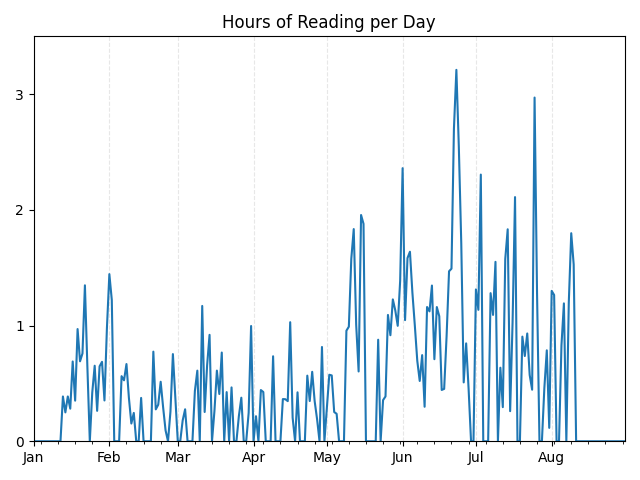
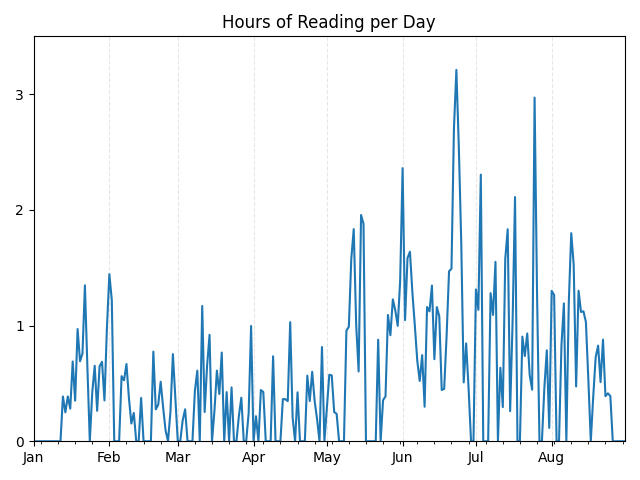
data (Gulliver's Travels)

Changed region(s): [[0.875, 0.5938, 0.9688, 0.9375]]

diff --git a/README.md b/README.md
@@ -96,3 +96,9 @@ on only the English pages.
 #### The Eyes of the Dragon (29)
 
 - Page count based on first Viking ed? Maybe?
+
+#### Gulliver's Travels (33)
+
+- Note that I didn't read through the contents, but the pages are
+recorded anyway because before them are the letters/publisher's
+notes. The words are not counted, however.
